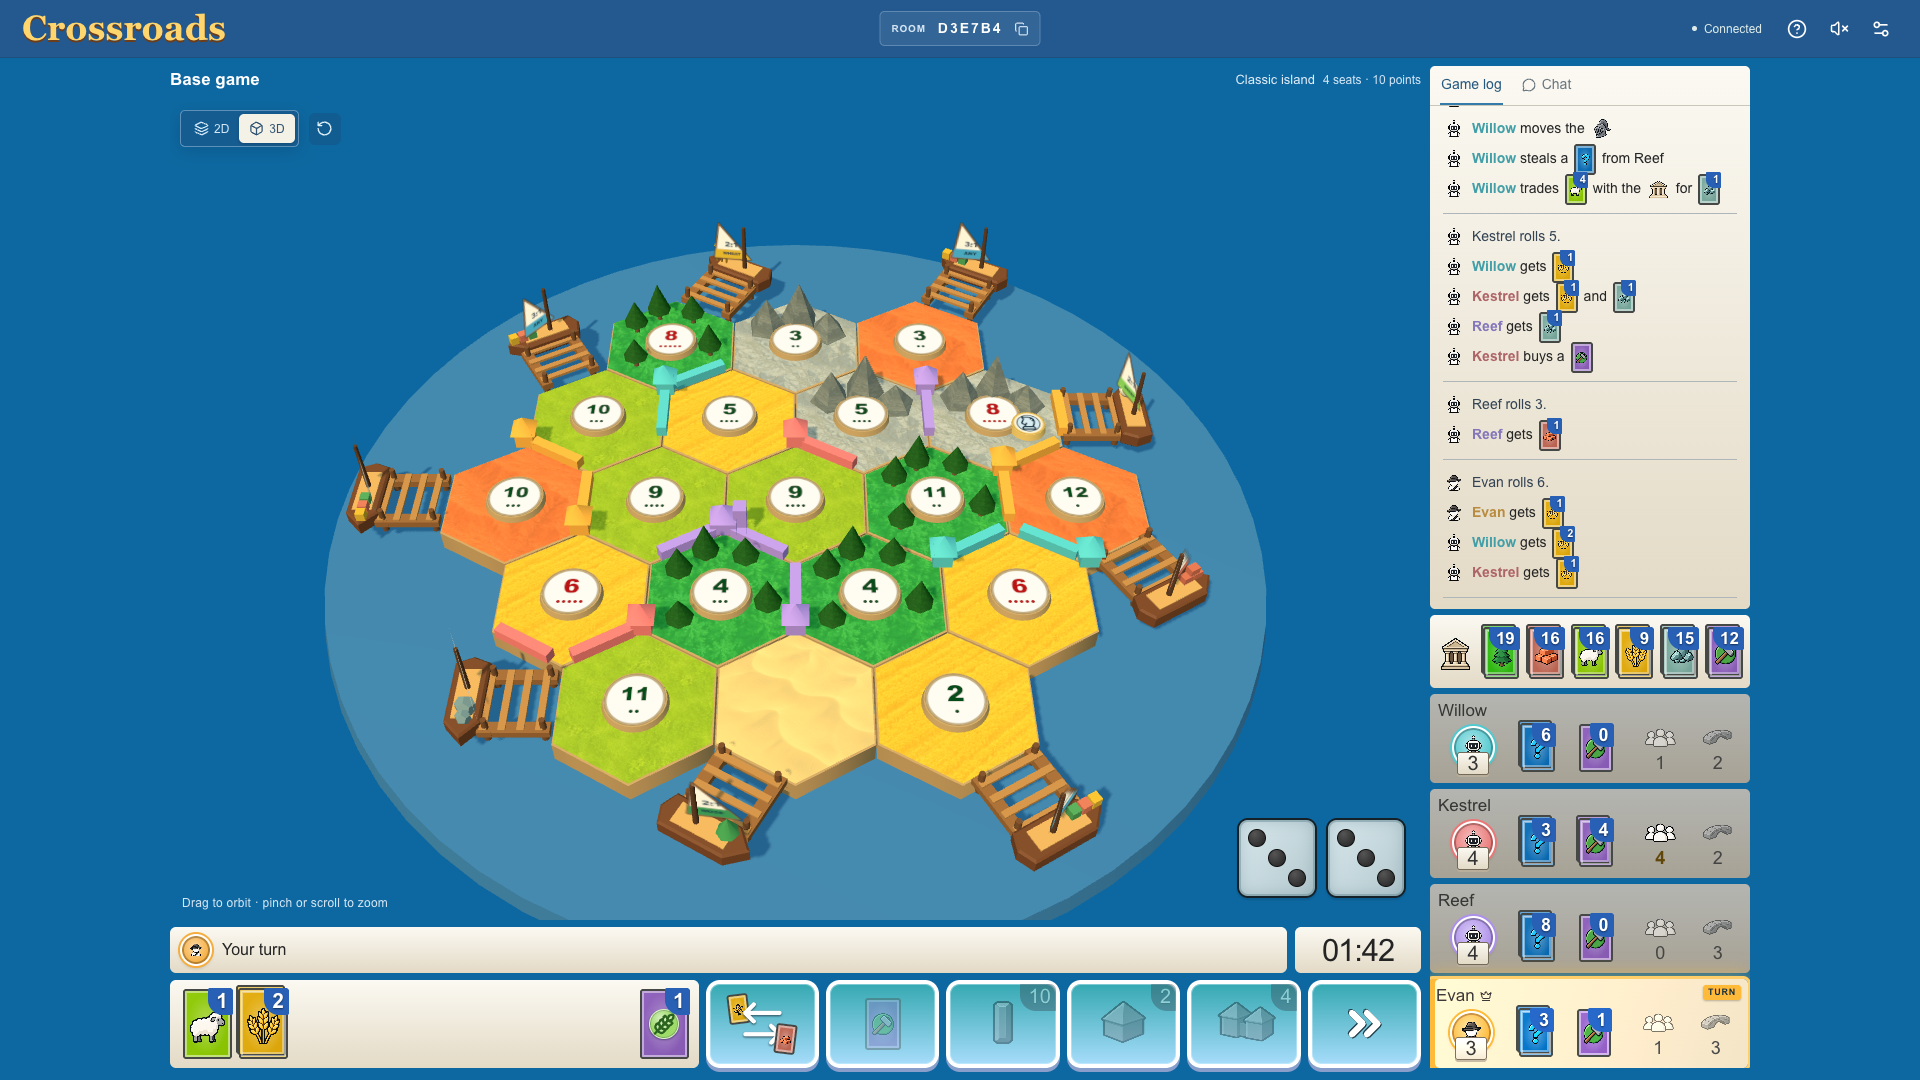
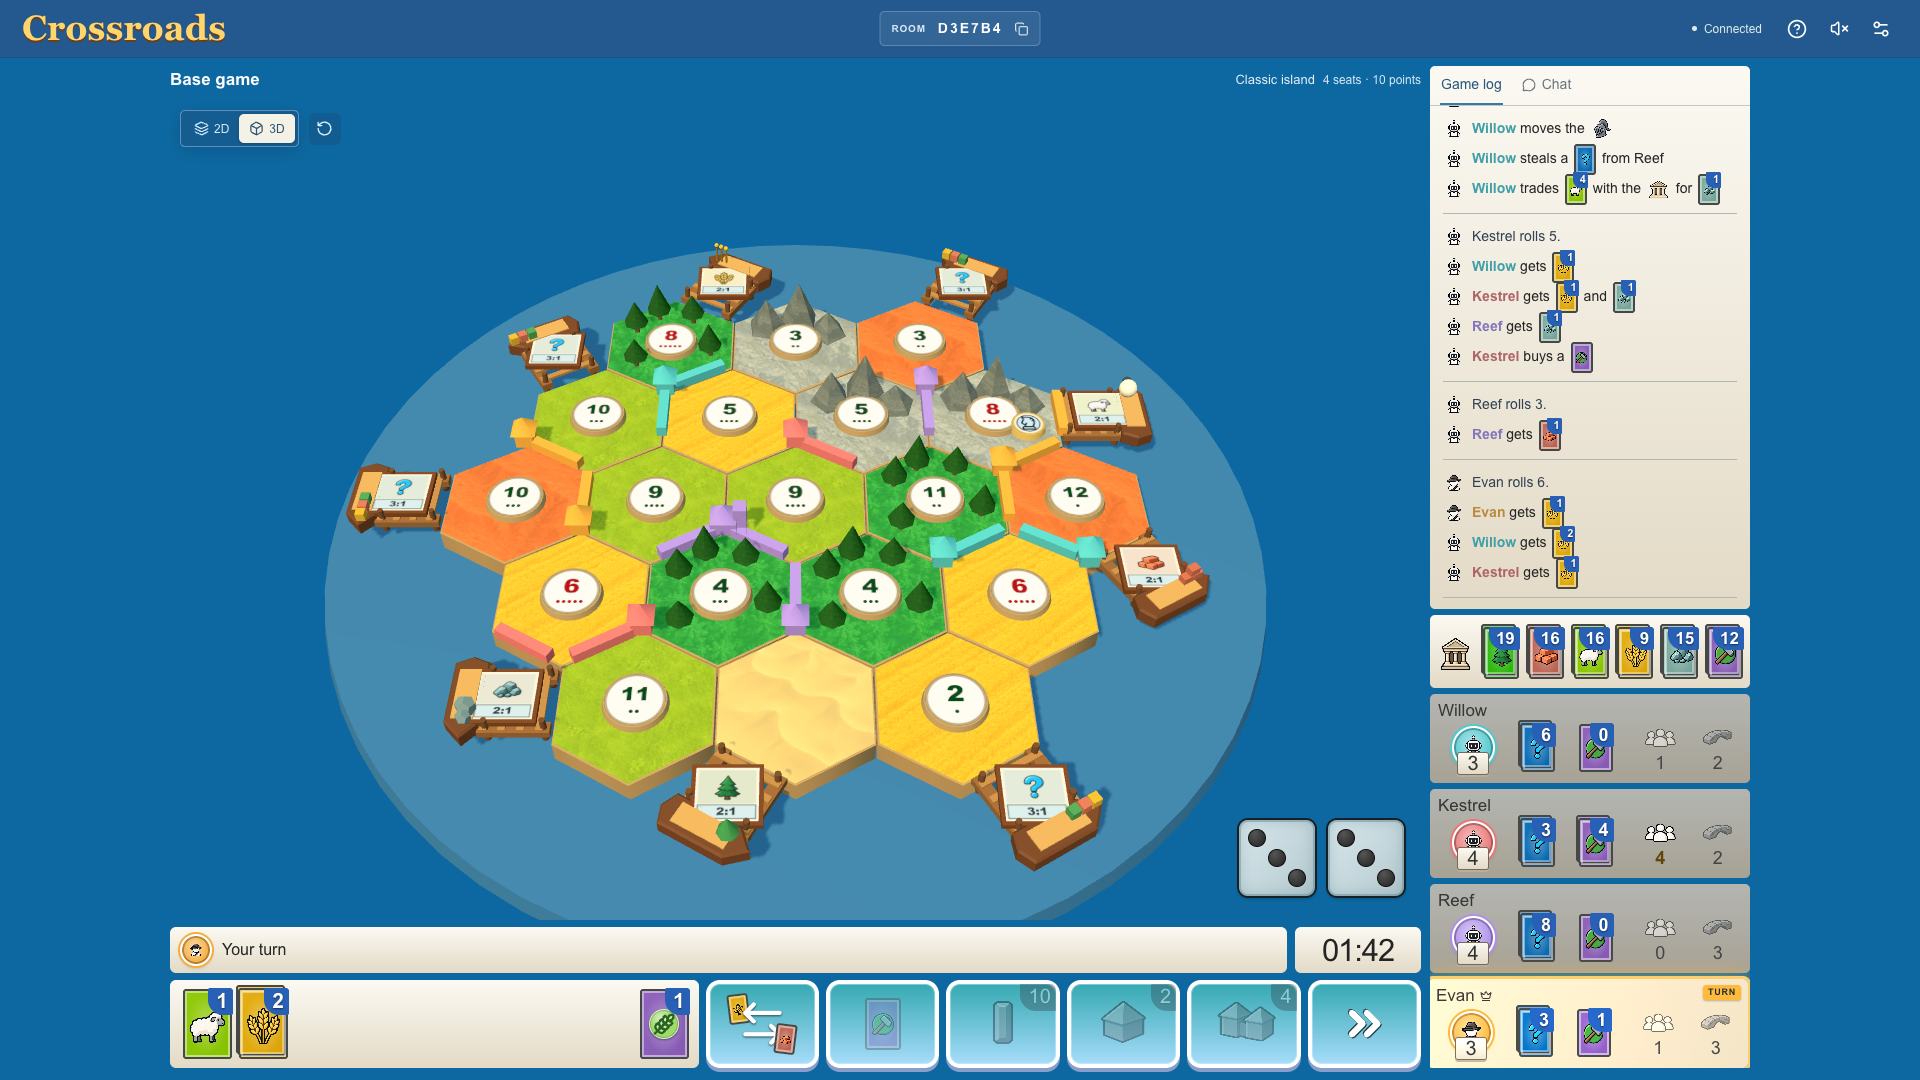
Flatten 3D harbor trade markers

diff --git a/client/ThreeBoard.tsx b/client/ThreeBoard.tsx
@@ -3,7 +3,10 @@ import { useEffect, useRef, useState } from "react";
 import * as THREE from "three";
 import { OrbitControls } from "three/addons/controls/OrbitControls.js";
 import { TERRAIN, type BoardProps, type BuildPiece } from "./Board";
-import { harborTransformForEdge } from "./portOrientation";
+import {
+  harborLabelPosition,
+  harborTransformForEdge,
+} from "./portOrientation";
 
 type Stage = {
   scene: THREE.Scene;
@@ -512,84 +515,66 @@ export default function ThreeBoard(props: BoardProps & { reset: number }) {
               : resource === "ore"
                 ? "#77969a"
                 : "#4aa8bd";
-    const portSail = (
+    const portBadgeTexture = (
       resource: (typeof board.ports)[number]["resource"],
       ratio: string,
     ) => {
+      const textureKey = `port-badge-${resource}`;
+      const cached = s.textures.get(textureKey);
+      if (cached) return cached;
       const canvas = document.createElement("canvas");
       canvas.width = 384;
       canvas.height = 384;
       const ctx = canvas.getContext("2d")!;
-      ctx.shadowColor = "rgba(20, 46, 55, .45)";
-      ctx.shadowBlur = 12;
-      ctx.shadowOffsetY = 9;
-      ctx.beginPath();
-      ctx.moveTo(66, 326);
-      ctx.lineTo(324, 326);
-      ctx.lineTo(104, 34);
-      ctx.closePath();
-      ctx.fillStyle = "#fff6d6";
-      ctx.fill();
-      ctx.shadowColor = "transparent";
-      ctx.lineWidth = 15;
-      ctx.lineJoin = "round";
-      ctx.strokeStyle = "#8b6035";
-      ctx.stroke();
-      ctx.save();
-      ctx.clip();
-      ctx.fillStyle = portColor(resource);
-      ctx.fillRect(48, 250, 300, 76);
-      ctx.restore();
-      ctx.fillStyle = "#254553";
-      ctx.textAlign = "center";
-      ctx.textBaseline = "middle";
-      ctx.font = "900 58px Arial Black, Arial, sans-serif";
-      ctx.fillText(ratio, 190, 210);
-      ctx.fillStyle = "#173744";
-      ctx.font = `900 ${resource === "any" ? 38 : 32}px Arial Black, Arial, sans-serif`;
-      ctx.fillText(
-        resource === "any" ? "ANY" : TERRAIN[resource].label.toUpperCase(),
-        190,
-        286,
-      );
+      const paintBadge = () => {
+        ctx.clearRect(0, 0, canvas.width, canvas.height);
+        ctx.fillStyle = "#fff8df";
+        ctx.fillRect(0, 0, canvas.width, canvas.height);
+        ctx.fillStyle = `${portColor(resource)}24`;
+        ctx.fillRect(18, 18, 348, 242);
+        ctx.fillStyle = "#dff1ed";
+        ctx.fillRect(18, 270, 348, 96);
+        ctx.strokeStyle = "#6b897f";
+        ctx.lineWidth = 7;
+        ctx.strokeRect(18, 270, 348, 96);
+        ctx.fillStyle = "#243e47";
+        ctx.textAlign = "center";
+        ctx.textBaseline = "middle";
+        ctx.font = "900 74px Arial Black, Arial, sans-serif";
+        ctx.fillText(ratio, 192, 320);
+      };
+      paintBadge();
       const map = new THREE.CanvasTexture(canvas);
       map.colorSpace = THREE.SRGBColorSpace;
       map.userData.label = true;
-      const sail = new THREE.Group();
-      const geometry = new THREE.PlaneGeometry(1, 1);
-      const front = new THREE.Mesh(
-        geometry,
-        new THREE.MeshBasicMaterial({
-          map,
-          transparent: true,
-          alphaTest: 0.03,
-          depthTest: true,
-          depthWrite: false,
-          side: THREE.FrontSide,
-          toneMapped: false,
-        }),
-      );
-      front.position.x = 0.23;
-      const backMap = map.clone();
-      backMap.userData.label = true;
-      backMap.needsUpdate = true;
-      const back = new THREE.Mesh(
-        geometry.clone(),
-        new THREE.MeshBasicMaterial({
-          map: backMap,
-          transparent: true,
-          alphaTest: 0.03,
-          depthTest: true,
-          depthWrite: false,
-          side: THREE.FrontSide,
-          toneMapped: false,
-        }),
-      );
-      back.position.x = 0.23;
-      back.rotation.y = Math.PI;
-      sail.add(front, back);
-      sail.scale.set(0.78, 0.78, 1);
-      return sail;
+      map.anisotropy = Math.min(8, s.renderer.capabilities.getMaxAnisotropy());
+      s.textures.set(textureKey, map);
+
+      const image = new Image();
+      image.onload = () => {
+        paintBadge();
+        const spriteIndex =
+          resource === "any"
+            ? 5
+            : ["wood", "brick", "sheep", "wheat", "ore"].indexOf(resource);
+        const cellWidth = image.naturalWidth / 4;
+        const cellHeight = image.naturalHeight / 4;
+        ctx.drawImage(
+          image,
+          (spriteIndex % 4) * cellWidth,
+          Math.floor(spriteIndex / 4) * cellHeight,
+          cellWidth,
+          cellHeight,
+          82,
+          27,
+          220,
+          220,
+        );
+        map.needsUpdate = true;
+        s.dirty = true;
+      };
+      image.src = "/textures/game-sprites.png";
+      return map;
     };
     const addPortModel = (
       edge: (typeof board.edges)[number],
@@ -597,13 +582,12 @@ export default function ThreeBoard(props: BoardProps & { reset: number }) {
     ) => {
       const a = board.vertices[edge.a];
       const b = board.vertices[edge.b];
+      const transform = harborTransformForEdge(a, b);
       const {
         centerX,
         centerZ,
-        outwardX,
-        outwardZ,
         rotationY,
-      } = harborTransformForEdge(a, b);
+      } = transform;
       const harbor = new THREE.Group();
       harbor.position.set(centerX, 0, centerZ);
       harbor.rotation.y = rotationY;
@@ -680,17 +664,30 @@ export default function ThreeBoard(props: BoardProps & { reset: number }) {
         0.31,
         0.94,
       );
-      portAdd(
-        new THREE.CylinderGeometry(0.025, 0.035, 0.73, 8),
-        material("#54351f"),
-        -0.1,
-        0.66,
-        0.94,
+
+      const badgePosition = harborLabelPosition(transform);
+      const badgeFrame = add(
+        new THREE.BoxGeometry(0.74, 0.065, 0.7),
+        material("#75411f", { roughness: 0.72 }),
+        badgePosition.x,
+        0.29,
+        badgePosition.z,
       );
-      const sail = portSail(resource, resource === "any" ? "3:1" : "2:1");
-      sail.position.set(-0.1, 0.75, 0.94);
-      sail.rotation.y = Math.PI / 8;
-      harbor.add(sail);
+      badgeFrame.rotation.y = 0;
+      const badgeFace = add(
+        new THREE.PlaneGeometry(0.65, 0.61),
+        new THREE.MeshBasicMaterial({
+          map: portBadgeTexture(
+            resource,
+            resource === "any" ? "3:1" : "2:1",
+          ),
+          toneMapped: false,
+        }),
+        badgePosition.x,
+        0.326,
+        badgePosition.z,
+      );
+      badgeFace.rotation.x = -Math.PI / 2;
 
       const accent = portColor(resource);
       if (resource === "wood") {
@@ -785,9 +782,9 @@ export default function ThreeBoard(props: BoardProps & { reset: number }) {
       s.targets.push({
         element: description,
         point: new THREE.Vector3(
-          centerX + outwardX * 0.94,
-          0.7,
-          centerZ + outwardZ * 0.94,
+          badgePosition.x,
+          0.34,
+          badgePosition.z,
         ),
       });
     };

diff --git a/tests/port-orientation.test.ts b/tests/port-orientation.test.ts
@@ -1,6 +1,9 @@
 import assert from "node:assert/strict";
 import test from "node:test";
-import { harborTransformForEdge } from "../client/portOrientation";
+import {
+  harborLabelPosition,
+  harborTransformForEdge,
+} from "../client/portOrientation";
 
 const closeTo = (actual: number, expected: number) =>
   assert.ok(Math.abs(actual - expected) < 1e-10, `${actual} != ${expected}`);
@@ -33,4 +36,15 @@ test("harbor orientation is stable when an edge's vertices are reversed", () => 
   closeTo(forward.outwardX, reverse.outwardX);
   closeTo(forward.outwardZ, reverse.outwardZ);
   closeTo(forward.rotationY, reverse.rotationY);
+});
+
+test("harbor labels sit outward from the coast without inheriting dock rotation", () => {
+  const transform = harborTransformForEdge(
+    { x: 2, y: 1 },
+    { x: 3, y: 2 },
+  );
+  const label = harborLabelPosition(transform, 0.52);
+
+  closeTo(label.x - transform.centerX, transform.outwardX * 0.52);
+  closeTo(label.z - transform.centerZ, transform.outwardZ * 0.52);
 });

diff --git a/client/portOrientation.ts b/client/portOrientation.ts
@@ -11,6 +11,19 @@ export interface HarborTransform {
   rotationY: number;
 }
 
+export function harborLabelPosition(
+  transform: Pick<
+    HarborTransform,
+    "centerX" | "centerZ" | "outwardX" | "outwardZ"
+  >,
+  offset = 0.52,
+) {
+  return {
+    x: transform.centerX + transform.outwardX * offset,
+    z: transform.centerZ + transform.outwardZ * offset,
+  };
+}
+
 export function harborTransformForEdge(
   a: BoardPoint,
   b: BoardPoint,
